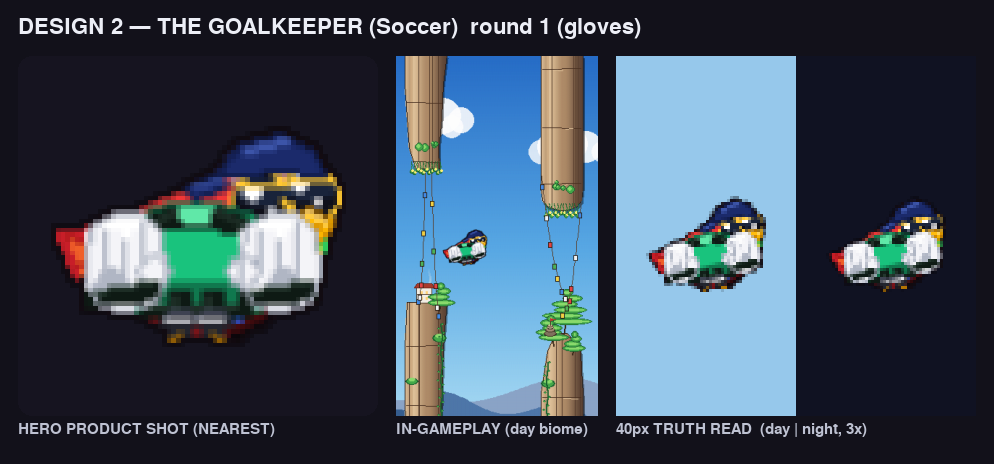
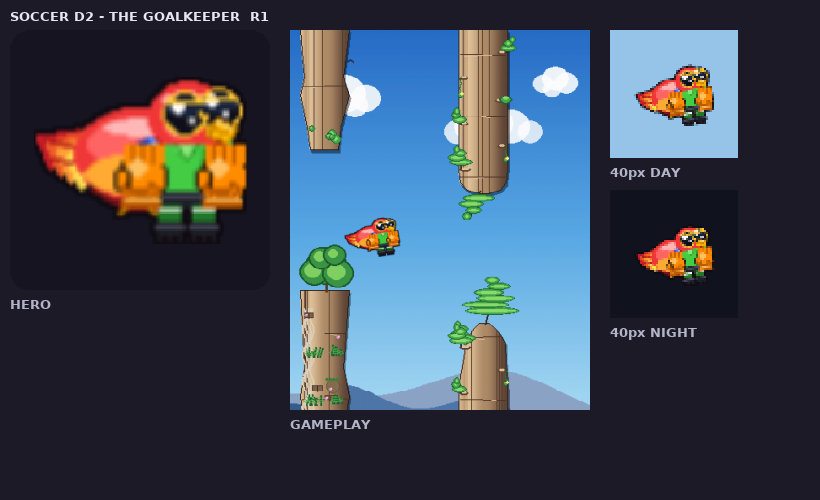
Soccer costume DESIGN 2 (The Goalkeeper) v2: HX,HY jersey anchor + orange keeper gloves
Re-anchor the keeper jersey onto the exact HX,HY baseball-jersey polygon
(top y=49, hem y=64) so the kit no longer floats left/high, drop all
headbands, and lead the read with oversized halo-ringed orange goalkeeper
gloves on both wings.

Claude-Session: https://claude.ai/code/session_01HafGQfRZVDiGkQqpJPr5Cm

diff --git a/tools/soccer_candidates/design_2.py b/tools/soccer_candidates/design_2.py
@@ -1,196 +1,115 @@
-"""DESIGN 2 — THE GOALKEEPER (Soccer / Football).
+"""DESIGN 2 — THE GOALKEEPER (Soccer / Football), v2.
 
-Scratch exploration only — NOT registered in store_skins.BUILDERS. Pip the
-scarlet macaw kitted as a goalkeeper: the read is carried by two OVERSIZED
-padded keeper GLOVES on both wing-hands — big rounded mitts with finger ridges
-and a wrist strap, drawn LAST so they sit proud in front of the body and break
-the silhouette. They are the design's signature, the furthest read from a
-basketball tank. Backing them up: a lurid high-vis NEON-GREEN keeper jersey
-(deliberately off-team) with a dark shoulder yoke + long sleeves, short shorts,
-short socks + cleats at the feet, and a soft short-brim cap at the crown.
+Scratch exploration only — NOT registered in store_skins.BUILDERS, so production
+art stays untouched.
 
-The kit is painted OVER the scarlet body (the head stays the macaw so Pip still
-reads as a parrot). The footprint law: the gloves may break the OUTLINE as held
-props, but nothing balloons the torso or drops below the feet line — socks +
-cleats sit on the feet line (~HY+15..27).
+v2 fixes the kit anchor: the jersey now rides the SAME HX,HY polygon the
+baseball Slugger uses (top edge y=49, hem y=64) instead of the old BCX,BCY
+block that floated too far left and too high. Nothing in the jersey rises above
+y=49, and there is NO headband of any kind across the crown or brow.
 
-Headless render: tools/soccer_candidates/render_design_2.py.
+Concept: the soccer read is carried by ONE cue no other sport shares — a pair of
+OVERSIZED bright-orange goalkeeper GLOVES, one fat padded mitt on each wing-hand.
+They're the HERO: drawn LAST so they sit proud in front of the body, each ringed
+by a dark contour halo so the orange pops off the lime jersey and the night sky
+alike. Beneath them a high-visibility lime keeper jersey, a dark shorts band,
+hooped socks, and dark boots finish the kit without competing. Pip's macaw
+head/beak/eye stay clear so it reads "parrot keeper".
 """
 import pygame
 
 from game import store_skins
-from game.store_skins import HX, HY, CROWN_Y, _poly
+from game.store_skins import HX, HY, _poly
 
+# High-visibility keeper jersey — vivid lime so it survives the dark NIGHT sky.
+_GK_JERSEY   = (68, 204, 68)       # #44CC44 hi-vis lime field
+_GK_JERSEY_D = (40, 150, 44)       # shaded off-side
+_GK_JERSEY_H = (138, 232, 120)     # collar / top sheen
 
-# High-vis NEON green is the deliberate "keeper is a different colour" tell;
-# three jersey values so the long sleeves + yoke separate after the downscale.
-_GK_HV     = (25, 195, 125)         # #19C37D high-vis green jersey
-_GK_HV_D   = (16, 120, 78)          # jersey shadow / sleeve seam
-_GK_HV_H   = (96, 232, 168)         # jersey highlight / sleeve top
-_GK_YOKE   = (14, 26, 20)           # #0E1A14 dark shoulder yoke / gloves trim
-_GK_YOKE_H = (40, 60, 50)           # yoke edge sheen
+# Goalkeeper gloves — bright safety orange, the HERO read.
+_GK_GLOVE    = (255, 140, 0)       # #FF8C00 padded mitt body
+_GK_GLOVE_H  = (255, 192, 98)      # padding highlight
+_GK_GLOVE_D  = (188, 90, 0)        # finger-gap / crease shade
+_GK_HALO     = (26, 18, 10)        # dark contour halo so the orange pops
 
-# Three glove values so the padding reads round at 40px (the hero shapes).
-_GK_GLOVE   = (244, 244, 248)       # #F4F4F8 white glove body
-_GK_GLOVE_D = (176, 182, 196)       # glove core shadow (rounds the padding)
-_GK_GLOVE_H = (255, 255, 255)       # glove crown highlight
+# Shorts + boots — near-black kit darks.
+_GK_DARK     = (30, 32, 40)        # shorts band + boots
+_GK_DARK_H   = (78, 82, 96)        # rim glint
 
-_GK_CAP    = (27, 42, 107)          # #1B2A6B cap navy
-_GK_CAP_H  = (60, 84, 168)          # cap crown highlight
-_GK_CAP_D  = (16, 26, 70)           # cap brim shadow
-
-_GK_CLEAT   = (35, 37, 46)          # #23252E cleat boot
-_GK_CLEAT_H = (78, 84, 102)         # cleat upper highlight
-_GK_SOCK    = (14, 26, 20)          # short sock (matches yoke/trim)
-_GK_SOCK_H  = (40, 60, 50)
-
-
-# Body centre in composite space (parrot body centre (32,32) + PARROT_DY=20).
-BCX, BCY = 32, 52
-
-
-def _glove(surf, cx, cy, flip):
-    """One oversized padded keeper mitt centred on a wing-hand. `flip` is +1 for
-    the near (right) hand, -1 for the far (left) hand, so the cuff/strap and the
-    light always fall the same way on both. Built fill→shade→ridges→outline→
-    highlight so the padding reads ROUND at 40px and stays the hero shape."""
-    f = flip
-    # Padded mitt body — a tall rounded shape, slightly wider at the palm and
-    # tapering to the fingertips. Drawn as a filled polygon so it can break the
-    # body outline cleanly without ballooning the torso. The body-facing inner
-    # edge is pulled in 1px (toward the torso centre) to reveal more neon chest
-    # at 40px: near glove (f>0) bodies on its LEFT edge, far glove on its RIGHT.
-    il = 1 if f > 0 else 0              # near glove: tuck the left edge in
-    ir = 1 if f < 0 else 0             # far glove: tuck the right edge in
-    mitt = [(cx - 8 + il, cy - 1), (cx - 7, cy - 8), (cx - 2, cy - 11),
-            (cx + 4, cy - 11), (cx + 8, cy - 7), (cx + 9 - ir, cy + 2),
-            (cx + 7, cy + 8), (cx + 1, cy + 10), (cx - 5, cy + 9),
-            (cx - 8 + il, cy + 4)]
-    pygame.draw.polygon(surf, _GK_GLOVE, mitt)
-    # Core shadow on the cuff side rounds the padding (3-value read).
-    pygame.draw.ellipse(surf, _GK_GLOVE_D,
-                        (cx - 7 if f > 0 else cx - 2, cy - 3, 9, 12))
-    pygame.draw.polygon(surf, _GK_GLOVE, mitt)  # restore body over the shade pool
-    pygame.draw.ellipse(surf, _GK_GLOVE_D,
-                        (cx + (2 * f) - 4, cy + 1, 8, 8))  # palm-heel shadow
-
-    # Finger ridges — TWO bold near-black grooves up the back of the mitt at
-    # wide ~5px spacing so the "padded glove" read holds at 40px. Fewer/deeper
-    # grooves survive the downscale where three thin mid-grey lines turn to mud.
-    for i in range(2):
-        gx = cx - 2 + i * 5
-        pygame.draw.line(surf, _GK_YOKE, (gx, cy - 10), (gx, cy + 2), 2)
-        pygame.draw.circle(surf, _GK_GLOVE_H, (gx + 1, cy - 9), 1)
-    # Thumb pad bulging off the palm side.
-    pygame.draw.circle(surf, _GK_GLOVE, (cx - 7 * f, cy + 2), 4)
-    pygame.draw.circle(surf, _GK_GLOVE_D, (cx - 7 * f, cy + 2), 4, 1)
-
-    # Dark wrist STRAP across the cuff (keeper trim) — the kit tell that locks
-    # the white shape to "glove" rather than "snowball".
-    pygame.draw.line(surf, _GK_YOKE, (cx - 8, cy + 7), (cx + 8, cy + 5), 4)
-    pygame.draw.line(surf, _GK_YOKE_H, (cx - 7, cy + 6), (cx + 6, cy + 4), 1)
-
-    # Crisp contour holds the mitt shape against the body and the sky.
-    pygame.draw.polygon(surf, _GK_GLOVE_D, mitt, 1)
-    # Top-light highlight so the padding crowns toward the light.
-    pygame.draw.line(surf, _GK_GLOVE_H, (cx - 4, cy - 9), (cx + 3, cy - 9), 2)
-    pygame.draw.circle(surf, _GK_GLOVE_H, (cx + 1, cy - 6), 1)
+# Socks — green with a white hoop.
+_GK_SOCK     = (34, 120, 40)       # green socks (tie to the jersey)
+_GK_SOCK_H   = (240, 244, 240)     # white hoop band
 
 
 def _paint(surf, _a):
-    # --- High-vis NEON keeper JERSEY over the torso -----------------------------
-    # A clean jersey block clipped to the chest in lurid high-vis green so it
-    # reads as the deliberately off-team keeper kit. Kept inside the body
-    # footprint (shoulders ~BCY-12, hem ~BCY+11) so it never balloons the bird.
-    jersey = [(BCX - 15, BCY - 9), (BCX - 16, BCY - 1), (BCX - 14, BCY + 11),
-              (BCX + 13, BCY + 11), (BCX + 15, BCY - 1), (BCX + 13, BCY - 9),
-              (BCX + 4, BCY - 12), (BCX - 6, BCY - 12)]
-    _poly(surf, _GK_HV, jersey)
-    # Lower-torso shadow gives the jersey a rounded body before the yoke goes on.
-    pygame.draw.ellipse(surf, _GK_HV_D, (BCX - 12, BCY + 1, 24, 11))
-    _poly(surf, _GK_HV, [(BCX - 14, BCY - 6), (BCX + 13, BCY - 6),
-                         (BCX + 12, BCY + 4), (BCX - 13, BCY + 4)])
+    # ── HI-VIS JERSEY on the EXACT baseball-jersey polygon (the corrected
+    #    anchor): top edge at HY+8 (=49) so nothing rises above y=49, hem at
+    #    HY+23 (=64), held inside the base bird footprint.
+    jersey = [(HX - 13, HY + 8), (HX - 14, HY + 18), (HX - 10, HY + 23),
+              (HX + 8, HY + 23), (HX + 11, HY + 18), (HX + 9, HY + 8)]
+    _poly(surf, _GK_JERSEY, jersey)
+    # Soft shade down the off-side so the jersey reads as a rounded torso.
+    _poly(surf, _GK_JERSEY_D, [(HX + 4, HY + 9), (HX + 11, HY + 18),
+                               (HX + 8, HY + 23), (HX + 5, HY + 22)])
+    # Collar V at the jersey top — a small bright notch so the kit reads as a
+    # keeper shirt, not a blank field. Sits at the top edge (y=49), not above it.
+    _poly(surf, _GK_JERSEY_H, [(HX - 4, HY + 8), (HX + 2, HY + 8),
+                               (HX - 1, HY + 12)])
+    pygame.draw.line(surf, _GK_JERSEY_D, (HX - 4, HY + 8), (HX - 1, HY + 12), 1)
+    pygame.draw.line(surf, _GK_JERSEY_D, (HX + 2, HY + 8), (HX - 1, HY + 12), 1)
 
-    # --- Long SLEEVES down the wing roots (keeper kit is long-sleeve) -----------
-    # High-vis sleeves cap the wing roots so the kit reads as worn, with a dark
-    # cuff at each wrist where the glove strap meets the sleeve.
-    for sx, sgn in ((BCX - 14, -1), (BCX + 13, 1)):
-        sleeve = [(sx, BCY - 9), (sx + 3 * sgn, BCY - 7), (sx + 5 * sgn, BCY + 2),
-                  (sx + 3 * sgn, BCY + 6), (sx - 1 * sgn, BCY + 5),
-                  (sx - 2 * sgn, BCY - 4)]
-        _poly(surf, _GK_HV, sleeve)
-        pygame.draw.line(surf, _GK_HV_H, (sx, BCY - 8),
-                         (sx + 4 * sgn, BCY - 1), 1)               # sleeve top light
-        pygame.draw.line(surf, _GK_HV_D, (sx + 2 * sgn, BCY + 1),
-                         (sx + 4 * sgn, BCY + 5), 1)               # sleeve underside
-        pygame.draw.line(surf, _GK_YOKE, (sx + 1 * sgn, BCY + 4),
-                         (sx + 5 * sgn, BCY + 3), 3)               # dark wrist cuff
+    # ── SHORTS — a small dark band sitting just under the jersey hem so there's
+    #    a kit break between shirt and legs (between hem HY+23 and the socks).
+    _poly(surf, _GK_DARK, [(HX - 10, HY + 22), (HX + 8, HY + 22),
+                           (HX + 7, HY + 26), (HX - 9, HY + 26)])
+    pygame.draw.line(surf, _GK_DARK_H, (HX - 9, HY + 23), (HX + 7, HY + 23), 1)
 
-    # --- Dark shoulder YOKE (the keeper-kit contrast panel) ---------------------
-    # A near-black yoke across both shoulders and the collar — the high-contrast
-    # band that, with the neon below it, reads unmistakably as a keeper shirt and
-    # not a plain green tank.
-    # Lower edge dropped 1px (deeper dark band) so the dark-over-neon keeper
-    # stack still reads after the 40px downscale.
-    yoke = [(BCX - 14, BCY - 8), (BCX - 6, BCY - 12), (BCX + 4, BCY - 12),
-            (BCX + 13, BCY - 8), (BCX + 9, BCY - 4), (BCX + 2, BCY - 6),
-            (BCX - 4, BCY - 6), (BCX - 11, BCY - 4)]
-    _poly(surf, _GK_YOKE, yoke)
-    pygame.draw.line(surf, _GK_YOKE_H, (BCX - 12, BCY - 7),
-                     (BCX - 5, BCY - 10), 1)
-    pygame.draw.line(surf, _GK_YOKE_H, (BCX + 11, BCY - 7),
-                     (BCX + 4, BCY - 10), 1)
-    # Crew collar notch in high-vis so the neckline reads.
-    _poly(surf, _GK_HV_H, [(BCX - 4, BCY - 11), (BCX + 3, BCY - 11),
-                           (BCX + 2, BCY - 8), (BCX - 3, BCY - 8)])
+    # ── SOCKS — two short green pillars at the foot positions, each with one
+    #    white hoop band near the top (the classic football sock).
+    for fx in (HX - 9, HX + 1):
+        pygame.draw.rect(surf, _GK_SOCK, (fx, HY + 26, 7, 6))
+        pygame.draw.line(surf, _GK_SOCK_H, (fx, HY + 27), (fx + 6, HY + 27), 1)
 
-    # Re-edge the jersey so panels don't leak past the cloth contour.
-    pygame.draw.polygon(surf, _GK_HV_D, jersey, 1)
+    # ── BOOTS — dark wedges at the feet line, tucked on the base bird's feet.
+    for fx in (HX - 10, HX):
+        pygame.draw.rect(surf, _GK_DARK, (fx, HY + 31, 9, 4), border_radius=2)
+        pygame.draw.line(surf, _GK_DARK_H, (fx, HY + 32), (fx + 8, HY + 32), 1)
+        # Three tiny stud dots so the boot reads as a football boot.
+        for tx in (fx + 1, fx + 4, fx + 7):
+            pygame.draw.line(surf, _GK_DARK, (tx, HY + 35), (tx, HY + 36), 1)
 
-    # --- Short SHORTS hem + short SOCKS + cleats at the feet line ----------------
-    # Short shorts hem in dark trim, then short socks + cleats hugging the feet
-    # line. Everything sits ON the feet line (~HY+15..27), nothing drops below
-    # it, so the bird keeps its true size.
-    pygame.draw.line(surf, _GK_YOKE, (BCX - 12, BCY + 11), (BCX + 11, BCY + 11), 3)
-    pygame.draw.line(surf, _GK_YOKE_H, (BCX - 10, BCY + 10), (BCX + 8, BCY + 10), 1)
-    for fx in (28, 35):
-        # Short sock — a stubby dark cuff (keeper socks aren't the tall outfield
-        # knee-highs, so the lower silhouette stays distinct from the Striker).
-        pygame.draw.line(surf, _GK_SOCK, (fx, HY + 18), (fx, HY + 22), 5)
-        pygame.draw.line(surf, _GK_SOCK_H, (fx - 1, HY + 19), (fx - 1, HY + 21), 1)
-        # Cleat boot — a single fat dark chunk + one highlight stripe. The tiny
-        # stud ticks were sub-pixel noise at 40px, so they're dropped.
-        pygame.draw.line(surf, _GK_CLEAT, (fx - 3, HY + 24), (fx + 2, HY + 24), 5)
-        pygame.draw.line(surf, _GK_CLEAT_H, (fx - 2, HY + 22), (fx + 1, HY + 22), 1)
-
-    # --- Soft short-brim CAP at the crown (keeps the macaw reading) -------------
-    # A low soft cap with a short brim — a goalkeeper tell that adds little bulk,
-    # so Pip's macaw head stays recognizable. Navy crown + a short forward brim.
-    cy = CROWN_Y - 1
-    cap = [(HX - 11, cy + 4), (HX - 6, cy - 3), (HX + 2, cy - 5),
-           (HX + 10, cy - 1), (HX + 12, cy + 4), (HX + 2, cy + 3),
-           (HX - 5, cy + 4)]
-    _poly(surf, _GK_CAP, cap)
-    pygame.draw.polygon(surf, _GK_CAP_D, cap, 1)
-    # Crown highlight + a short forward brim catching the light.
-    pygame.draw.line(surf, _GK_CAP_H, (HX - 5, cy - 2), (HX + 4, cy - 4), 2)
-    # Brim filled in the darker shadow value (not the crown navy) so it breaks
-    # hard from the dome and reads as a separate brim, not one navy blob.
-    brim = [(HX - 12, cy + 4), (HX - 18, cy + 7), (HX - 16, cy + 9),
-            (HX - 8, cy + 6)]
-    _poly(surf, _GK_CAP_D, brim)
-    pygame.draw.polygon(surf, _GK_CAP_D, brim, 1)
-    # 1px lighter underedge separates the brim silhouette from the sky/body.
-    pygame.draw.line(surf, _GK_CAP_H, (HX - 17, cy + 8), (HX - 9, cy + 6), 1)
-
-    # --- Oversized keeper GLOVES on BOTH wing-hands (THE hero, drawn LAST) -------
-    # The signature shapes: big padded mitts sitting proud in front of the body,
-    # breaking the silhouette so the read screams GOALKEEPER from across the
-    # pitch. Far hand first, near hand last, so the near glove reads frontmost.
-    # Far hand pushed out + down so its rounded crown clears the scarlet tail
-    # wedge and both mitts read as a matched PAIR against the body.
-    _glove(surf, BCX - 18, BCY - 1, flip=-1)   # far (left) hand
-    _glove(surf, BCX + 18, BCY - 2, flip=1)    # near (right) hand
+    # ── GOALKEEPER GLOVES — the HERO, drawn LAST so they sit in front of the
+    #    jersey. One oversized orange padded mitt riding each wing-hand, big and
+    #    bold so they're the dominant lower-silhouette mass at 40px. A dark halo
+    #    rings each so the orange separates cleanly from the lime jersey and the
+    #    night sky alike.
+    for gx in (HX - 14, HX + 10):
+        cx, cy = gx, HY + 17           # centred on each wing root (HY+14..22)
+        # Dark contour halo — a slightly larger mitt behind so the orange always
+        # carries a black edge against any background.
+        pygame.draw.ellipse(surf, _GK_HALO, (cx - 7, cy - 8, 15, 18))
+        # Fat padded palm — the main orange mass.
+        pygame.draw.ellipse(surf, _GK_GLOVE, (cx - 6, cy - 7, 13, 16))
+        # Four blunt finger pads riding the top so it reads as a mitt, not a
+        # ball; dark gaps between them carve the fingers.
+        for i, fxo in enumerate((-5, -2, 1, 4)):
+            pygame.draw.rect(surf, _GK_GLOVE, (cx + fxo, cy - 9, 3, 6),
+                             border_radius=1)
+            if i:
+                pygame.draw.line(surf, _GK_GLOVE_D, (cx + fxo - 1, cy - 9),
+                                 (cx + fxo - 1, cy - 4), 1)
+        # Stubby thumb on the inner side.
+        pygame.draw.ellipse(surf, _GK_GLOVE, (cx - 8, cy - 2, 5, 7))
+        pygame.draw.ellipse(surf, _GK_HALO, (cx - 8, cy - 2, 5, 7), 1)
+        # Padding highlight + a dark crease so the mitt reads as round, padded
+        # leather rather than a flat orange disc.
+        pygame.draw.ellipse(surf, _GK_GLOVE_H, (cx - 4, cy - 5, 6, 6))
+        pygame.draw.arc(surf, _GK_GLOVE_D, (cx - 6, cy - 4, 13, 13),
+                        3.6, 5.9, 2)
+        # Wrist cuff strap so the glove anchors to the wing.
+        pygame.draw.rect(surf, _GK_GLOVE_D, (cx - 6, cy + 7, 12, 3),
+                         border_radius=1)
+        pygame.draw.line(surf, _GK_GLOVE_H, (cx - 5, cy + 7), (cx + 5, cy + 7), 1)
 
 
 build = store_skins._make_skin(_paint)
